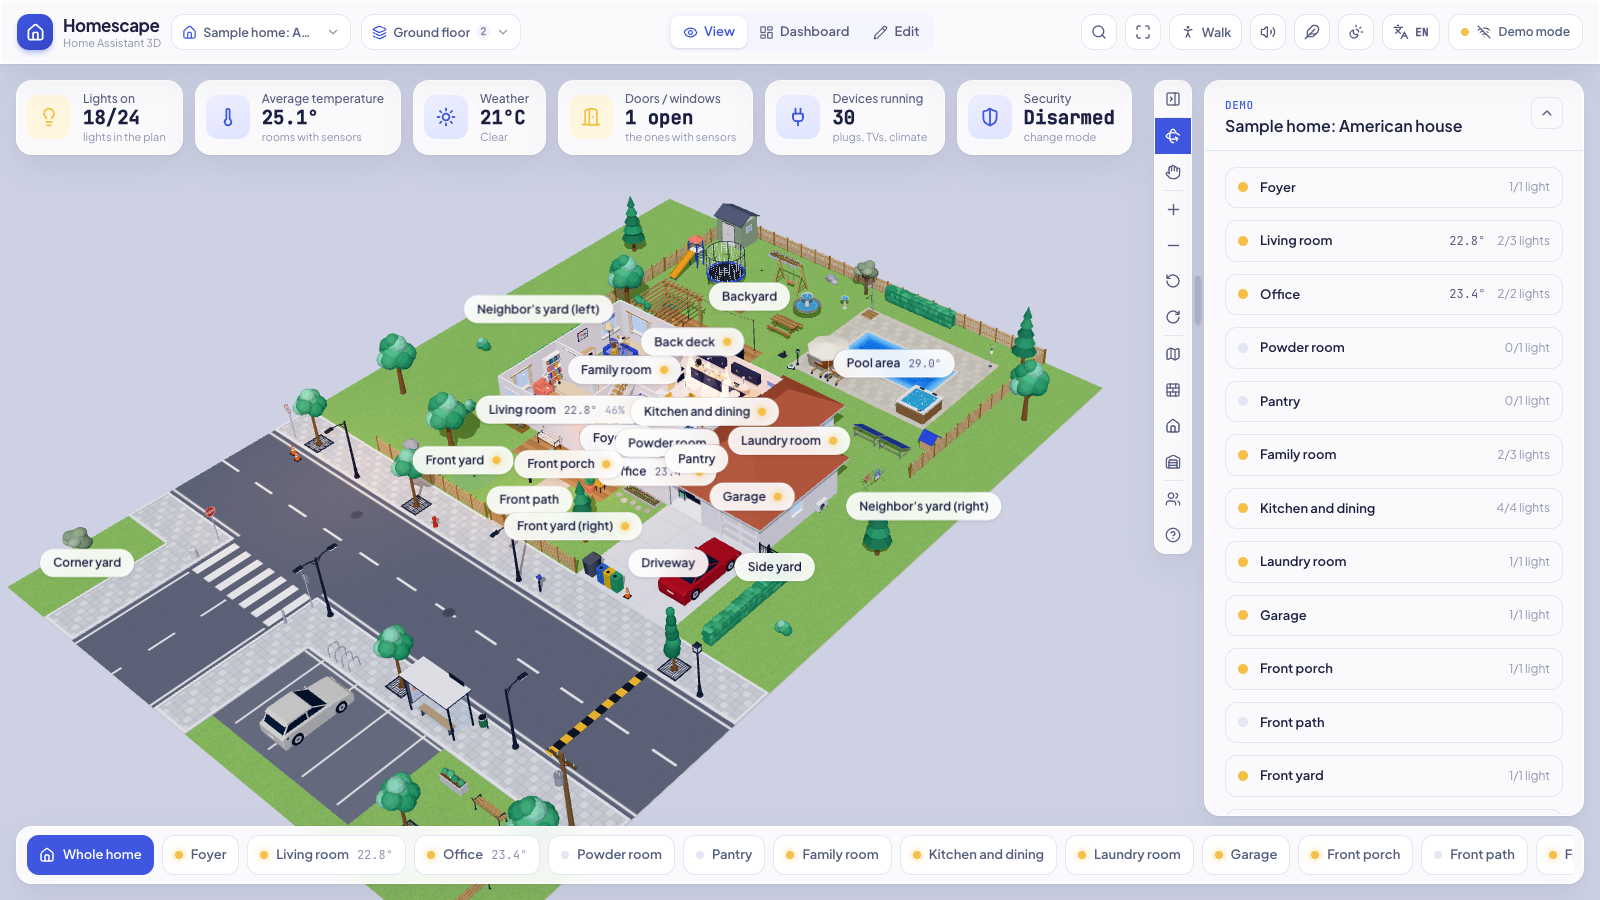
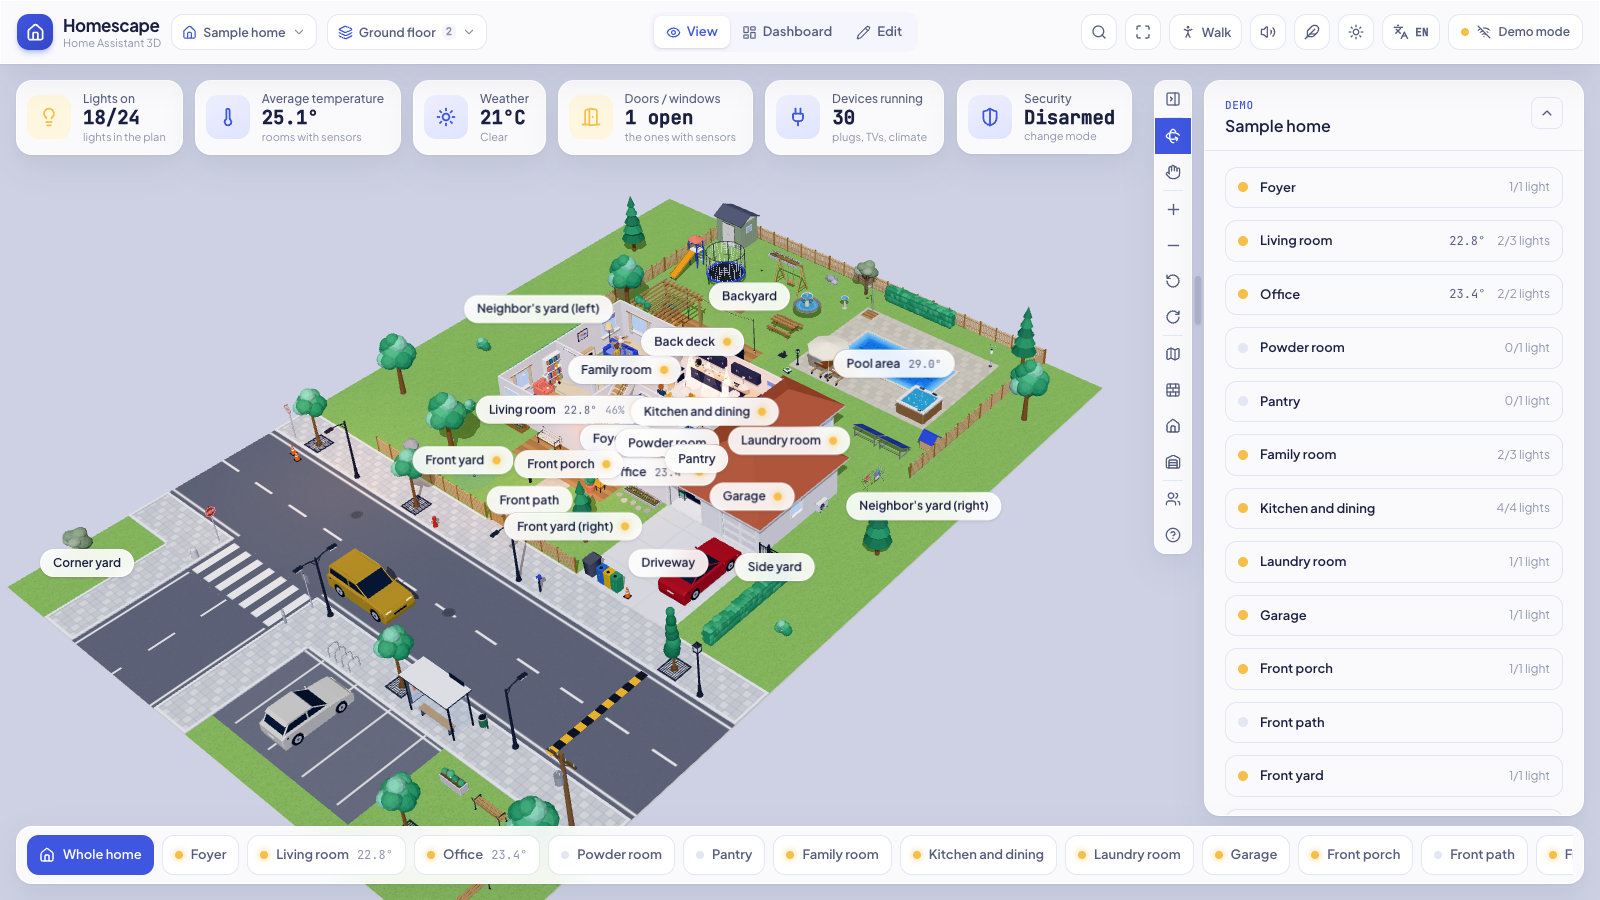
Refresh the README media
New screenshots of the sample home (with its new name and the
Dashboard's Customize button), an animation circling the house at the
top of the README and one of the first-person walk, from the front door
into the kitchen. The app's README shows the overview too.

tools/readme-media.mjs (npm run media) makes all of them. Animations
are recorded frame by frame on a paused clock, so they are smooth in a
headless browser, and stored as animated WebP with every frame a key
frame: a third of the size of a GIF, without the blocks that partial
frame updates leave on walls and ceilings.

diff --git a/README.md b/README.md
@@ -3,7 +3,7 @@
 <p align="center">Your Home Assistant home as a live, interactive 3D dollhouse.</p>
 
 <p align="center">
-  <img src="docs/screenshots/overview.png" alt="Homescape showing a two storey house with its rooms, devices and the street in 3D" width="900">
+  <img src="docs/media/tour.webp" alt="The camera circling the sample home in 3D: two storeys with their rooms and devices, the yard, and the street with cars and people" width="880">
 </p>
 
 Homescape draws your home in 3D in the browser and keeps it in sync with Home Assistant: lights glow in their rooms, the
@@ -13,9 +13,15 @@ Home Assistant areas and entities; you shape it further directly in 3D.
 <table>
   <tr>
     <td><img src="docs/screenshots/room.png" alt="Close-up of a living room: the roof lifts away, people and a dog move through the house"></td>
-    <td><img src="docs/screenshots/dashboard.png" alt="Dashboard view with every room's devices and controls"></td>
+    <td><img src="docs/screenshots/dashboard.png" alt="Dashboard view with every room's devices and controls, and the Customize button"></td>
   </tr>
 </table>
+
+<p align="center">
+  <img src="docs/media/walk.webp" alt="First-person walk through the sample home: in through the front door, past the stairs and into the kitchen, where someone is cooking" width="880">
+  <br>
+  <sub>The first-person walk: in through the front door, past the stairs and into the kitchen.</sub>
+</p>
 
 ## Features
 
@@ -79,6 +85,7 @@ npm run lint          # oxlint
 npm run i18n:check    # every user-facing text has a translation
 npm run check         # browser regression tests (dev server running, Chrome installed)
 npm run shot          # screenshot of the scene to shots/scene.png
+npm run media         # the screenshots and animations of this README (needs ffmpeg and img2webp)
 ```
 
 The architecture, the folder layout and the rules for the 3D scene are in [CLAUDE.md](CLAUDE.md), the visual language in

diff --git a/CLAUDE.md b/CLAUDE.md
@@ -47,6 +47,7 @@ npm run typecheck
 npm run lint            # oxlint
 npm run i18n:check      # every t() text has a translation entry
 npm run shot            # screenshot -> shots/scene.png (dev server must be running)
+npm run media           # README screenshots (docs/screenshots) and animations (docs/media, animated WebP; needs ffmpeg and img2webp)
 npm run perf            # performance: fps idle and while rotating, main thread time, draw calls, triangles (Retina emulation, PERF_DPR)
 npm run check           # all regression suites below (dev server must be running)
 npm run check:controls  # camera (rotate by default, right drag and Space pan, hand mode), editing, placement: 43 checks

diff --git a/homescape/README.md b/homescape/README.md
@@ -1,5 +1,7 @@
 # Homescape
 
+![Homescape showing the sample home in 3D with its rooms, devices and the street](https://raw.githubusercontent.com/muratozturk5/homescape/main/docs/screenshots/overview.png)
+
 Your home as a live 3D dollhouse in the Home Assistant sidebar: lights glow, the TV plays, doors open with their sensors,
 and every device can be controlled by clicking it. The first plan is built from your areas and entities; you can shape it
 in 3D.
